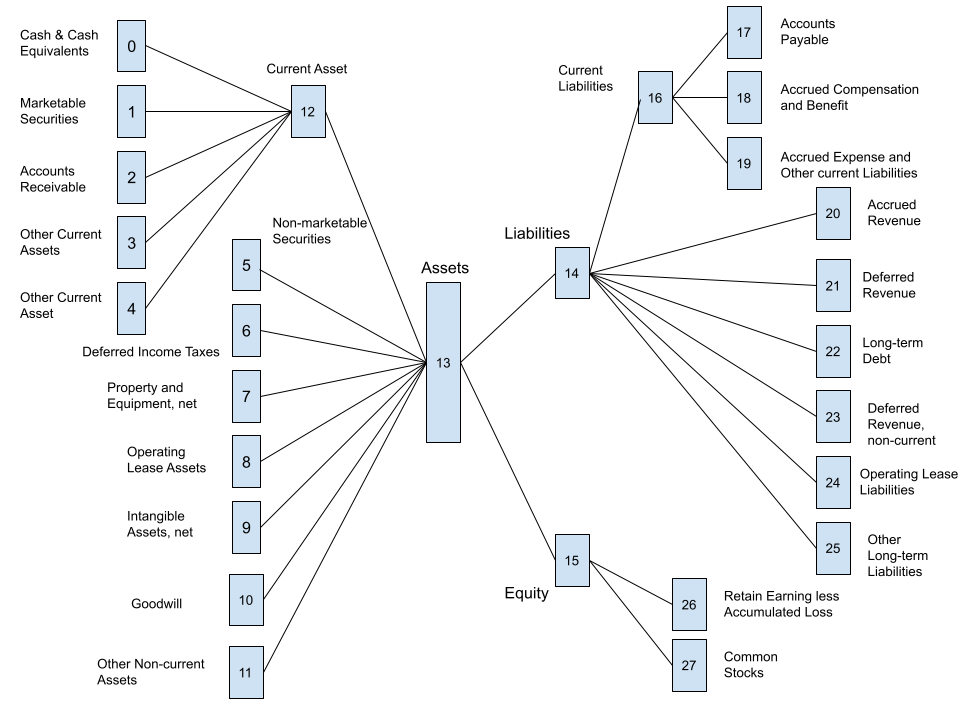
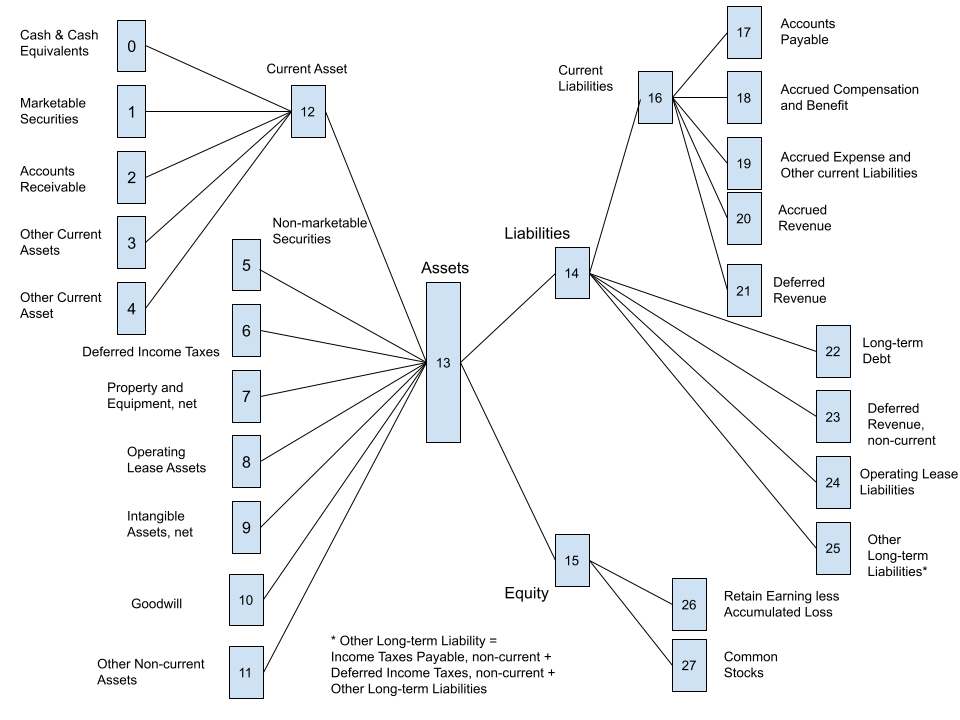
Drafted googl balance sheet sankey

diff --git a/dashboard/data/googl/data_balsht_googl.py b/dashboard/data/googl/data_balsht_googl.py
@@ -9,6 +9,25 @@ def get_nodes():
 	f = open(f'{curr_dir}/nodes_googl_balsht.json')
 	return json.load(f)
 
+def get_link_direction(left_node, right_node, curr_value, acct='asset'):
+	# For Liability or equity accounts
+	if acct=='liability':
+		if curr_value>0:
+			return left_node, right_node, curr_value, 'lightpink'
+		else:
+			return right_node, left_node, -1*curr_value, 'lightgreen'
+	elif acct=='equity':
+		if curr_value>0:
+			return left_node, right_node, curr_value, 'lightblue'
+		else:
+			return right_node, left_node, -1*curr_value, 'lightpink'
+
+	# For Assets accounts
+	if curr_value>0:
+		return left_node, right_node, curr_value, 'lightgreen'
+	else:
+		return right_node, left_node, -1*curr_value, 'lightpink'
+
 
 # Add sankey links with data, color, direction
 def add_node_to_link(links, source, target, value, color):
@@ -34,10 +53,65 @@ def get_data(df):
 	print(nodes) # Delete later
 
 	# Nodes colour, green=asset, red=liability, blue=equity
-	nodes_colors = ['green']*13+['red']+['blue']+['red']*10+['blue']*2
+	nodes_colors = ['green']*13+['black','red','blue']+['red']*10+['blue']*2
 
 	# Map each KPI with the preassigned index number in nodes_label
 	df_temp = {'Items': [k for k in nodes.keys()], 'Node_num':[nodes[k] for k in nodes.keys()]}
 	df = pd.merge(df, pd.DataFrame(df_temp), on='Items', how='inner')
 	print(df) # Delete later
+
+	# Asset here
+	## Current Assets
+	curr_asset = 0
+	for i in range(0,5):
+		curr_value = df[df['Node_num']==i]['Value'].values[0]
+		link_temp = get_link_direction(i, 12, curr_value,'asset')
+		links = add_node_to_link(links, link_temp[0],link_temp[1],
+		link_temp[2],link_temp[3])
+		curr_asset += curr_value
+	links = add_node_to_link(links, 12, 13, curr_asset, 'lightgreen')
+
+	## Long-term Liabilities
+	for i in range(5,12):
+		curr_value = df[df['Node_num']==i]['Value'].values[0]
+		link_temp = get_link_direction(i, 13, curr_value,'asset')
+		links = add_node_to_link(links, link_temp[0],link_temp[1],
+		link_temp[2],link_temp[3])
+
+	# Liabilities here
+	lib = 0
+	## Current Liabilities
+	curr_lib = 0
+	for i in range(17,22):
+		curr_value = df[df['Node_num']==i]['Value'].values[0]
+		link_temp = get_link_direction(16, i, curr_value,'liability')
+		links = add_node_to_link(links, link_temp[0],link_temp[1],
+		link_temp[2],link_temp[3])
+		curr_lib += curr_value
+		print(curr_lib)
+	lib += curr_lib # Add curr_lib to total lib
+	links = add_node_to_link(links, 14, 16, curr_lib, 'lightpink')
+
+	## Long-term Liabilities
+	for i in range(22,26):
+		curr_value = df[df['Node_num']==i]['Value'].values[0]
+		link_temp = get_link_direction(14, i, curr_value,'liability')
+		links = add_node_to_link(links, link_temp[0],link_temp[1],
+		link_temp[2],link_temp[3])
+		lib += curr_value # Add curr_value directly to total lib
+	links = add_node_to_link(links, 13, 14, lib, 'lightpink')
+
+	# Equity here
+	equ = 0
+	for i in range(26,28):
+		curr_value = df[df['Node_num']==i]['Value'].values[0]
+		link_temp = get_link_direction(15, i, curr_value,'equity')
+		links = add_node_to_link(links, link_temp[0],link_temp[1],
+		link_temp[2],link_temp[3])
+		equ += curr_value
+	links = add_node_to_link(links, 13, 15, equ, 'lightblue')
+
+	print(links) # Delete later
+
+	return nodes_label, nodes_colors, links
 

diff --git a/dashboard/dashboard.py b/dashboard/dashboard.py
@@ -55,11 +55,13 @@ def display_income_statement(tab, company, period):
                     ))]
     # Balance Sheet
     if tab == tab_labels[1]:
+        curr_data = companies_data[company][tab]['data']
+        curr_data = curr_data[curr_data['Period']==period]
         return [html.Div(
                     # P/H1 here if needed
                     # Plotly Chart
                     dcc.Graph(
-                        figure=balancesheet_figure(company, period),
+                        figure=balancesheet_figure(company, curr_data),
                         style={'height':graph_height}
 
                     ))]

diff --git a/dashboard/data/loaddata.py b/dashboard/data/loaddata.py
@@ -30,6 +30,9 @@ def load_alldata():
 			companies_data[ticker]['income_statement'] = read_csv(inc_smt_loc)
 
 			# Load Balance Sheet data here
+			bal_sht_loc = f'{data_loc}/{ticker}/{ticker}_balancesheet_example.csv'
+			companies_data[ticker]['balance_sheet'] = read_csv(bal_sht_loc)
+
 			# Load Cashflow Statement data here
 			cshf_smt_loc = f'{data_loc}/{ticker}/{ticker}_cashflow_example.csv'
 			companies_data[ticker]['cashflow_statement'] = read_csv(cshf_smt_loc)

diff --git a/dashboard/balancesheet.py b/dashboard/balancesheet.py
@@ -4,8 +4,8 @@ from data.googl.balance_sheet_googl import *
 
 
 # Function called by dashboard.py
-def balancesheet_figure(company, period):
-	if company == 'Google':
-		# return balance_sheet_GOOGL(data)
-		return example.fig
+def balancesheet_figure(company, data):
+	if company == 'googl':
+		# balance_sheet_GOOGL(data) # For testing, delete later
+		return balance_sheet_GOOGL(data)
 	return example.fig

diff --git a/dashboard/cashflow_statement.py b/dashboard/cashflow_statement.py
@@ -8,5 +8,4 @@ def cashflow_statement_figure(company, data):
 	if company == 'googl':
 		return cashflow_statement_GOOGL(data) # For testing, delete later
 		# return example.fig # return poc image, delete later
-		# return cashflow_statemetn_GOOGL()
 	return None
